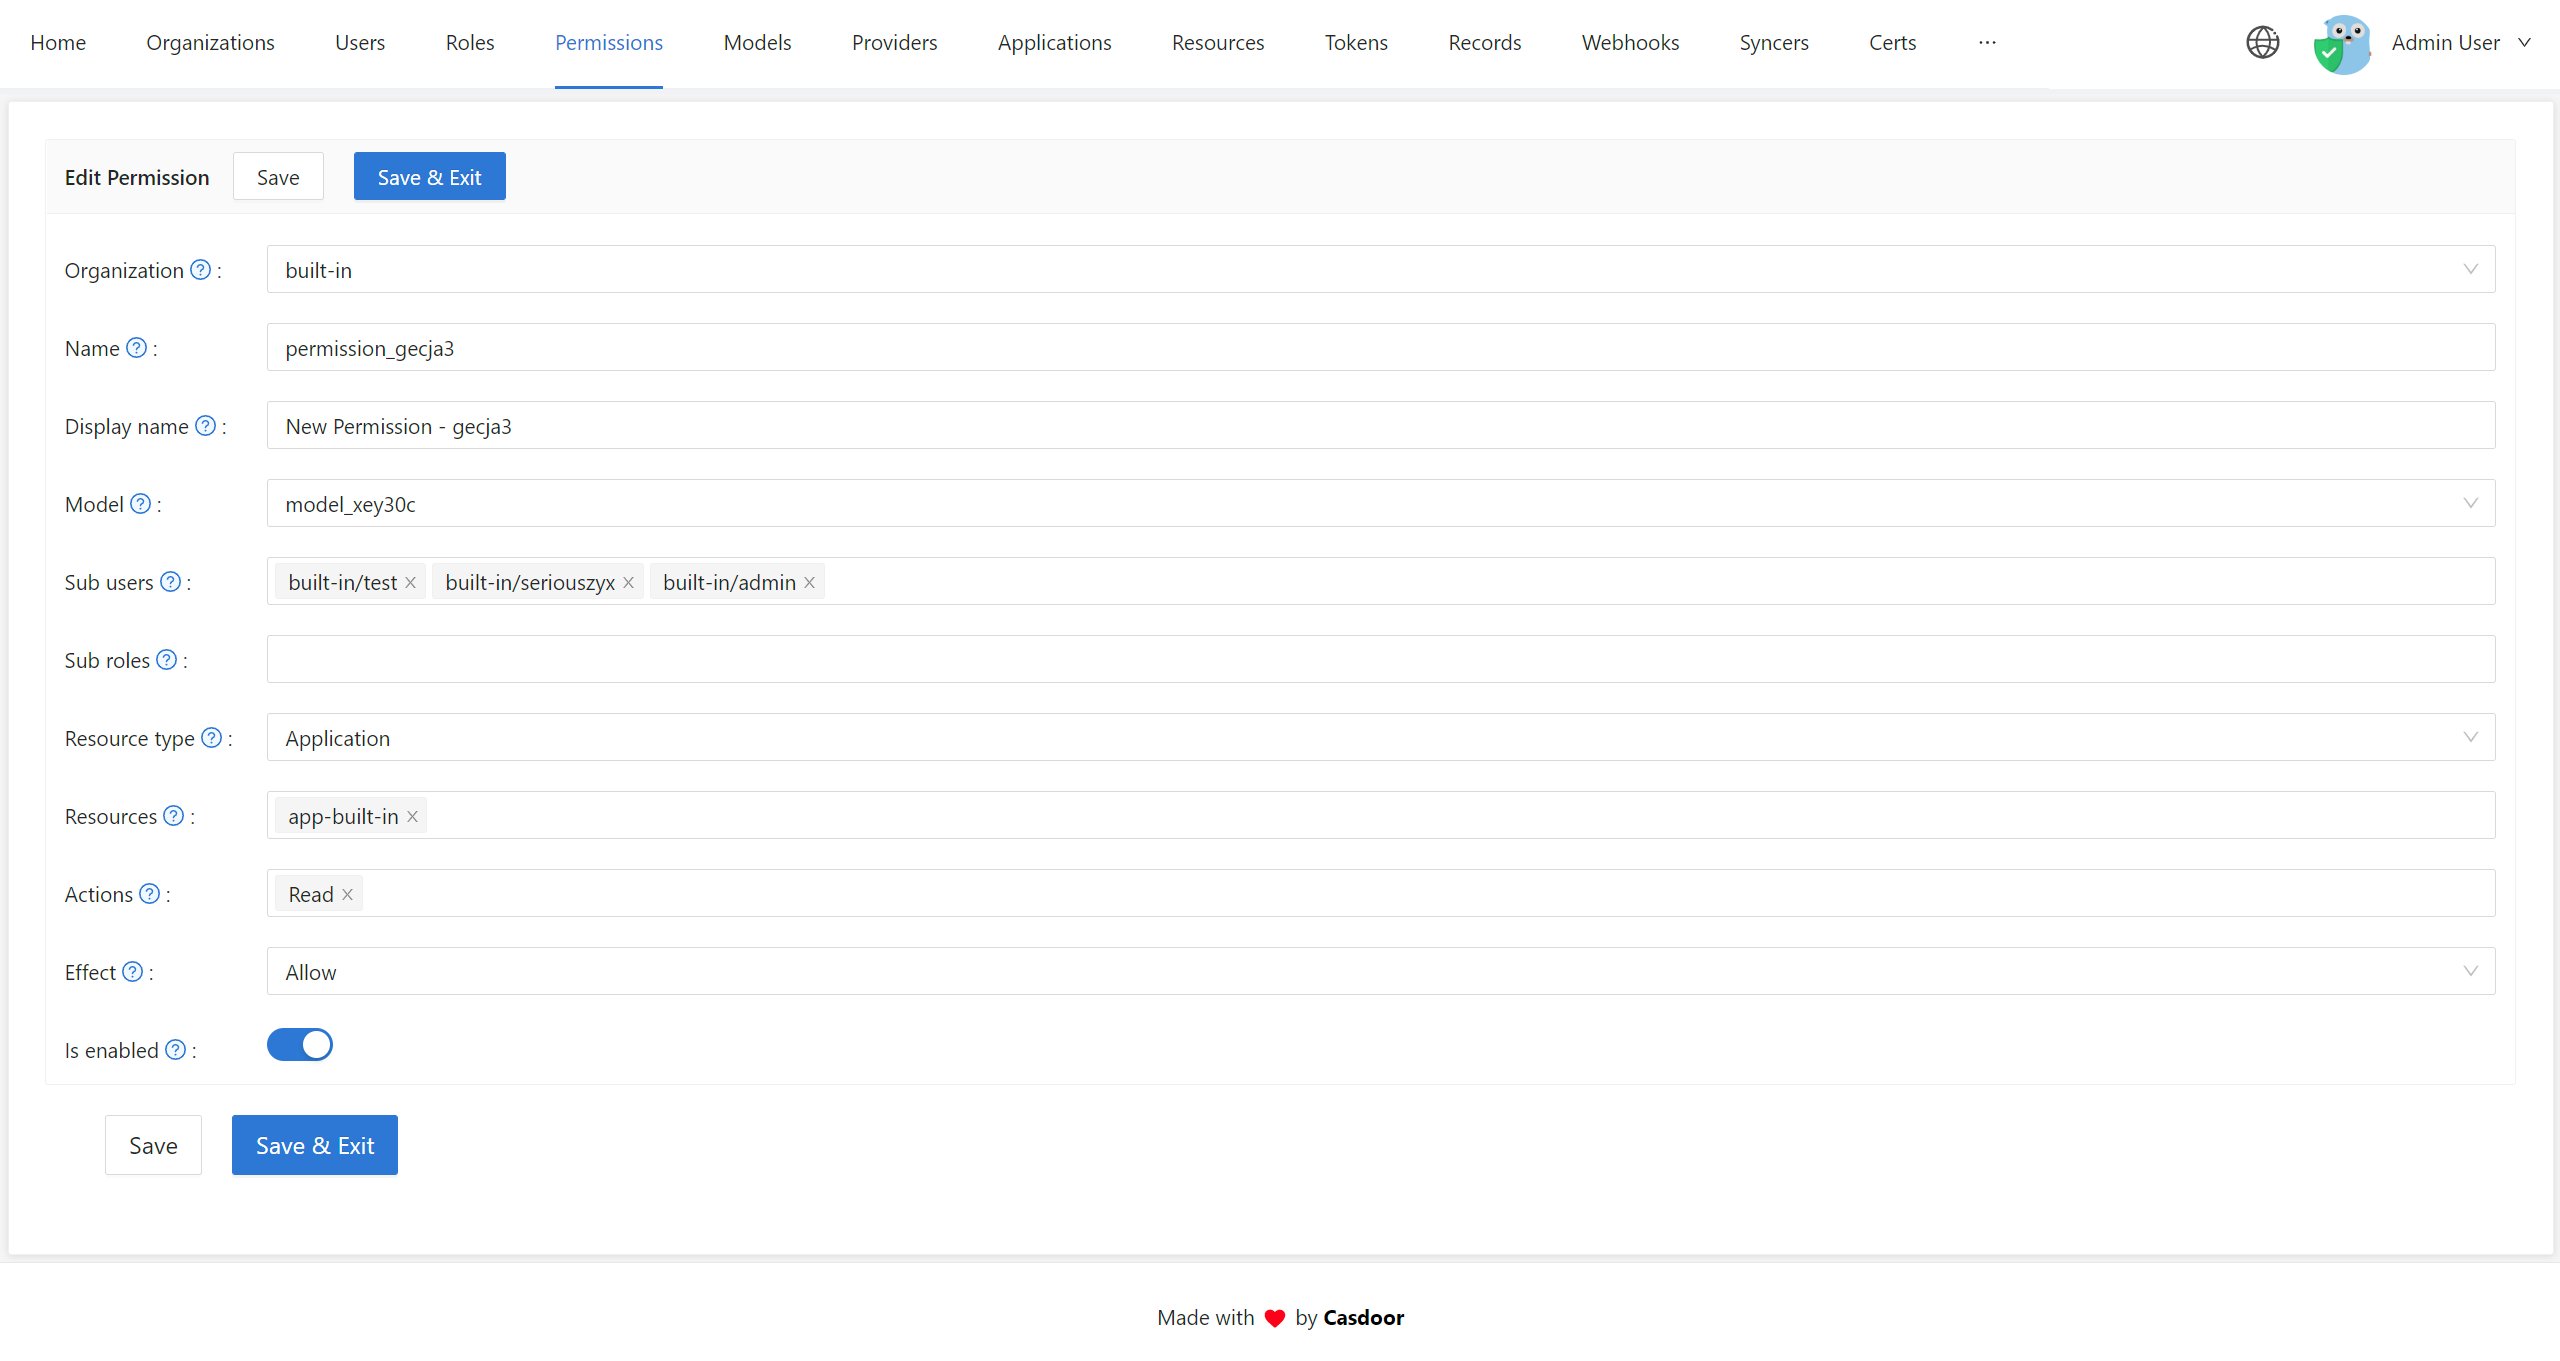
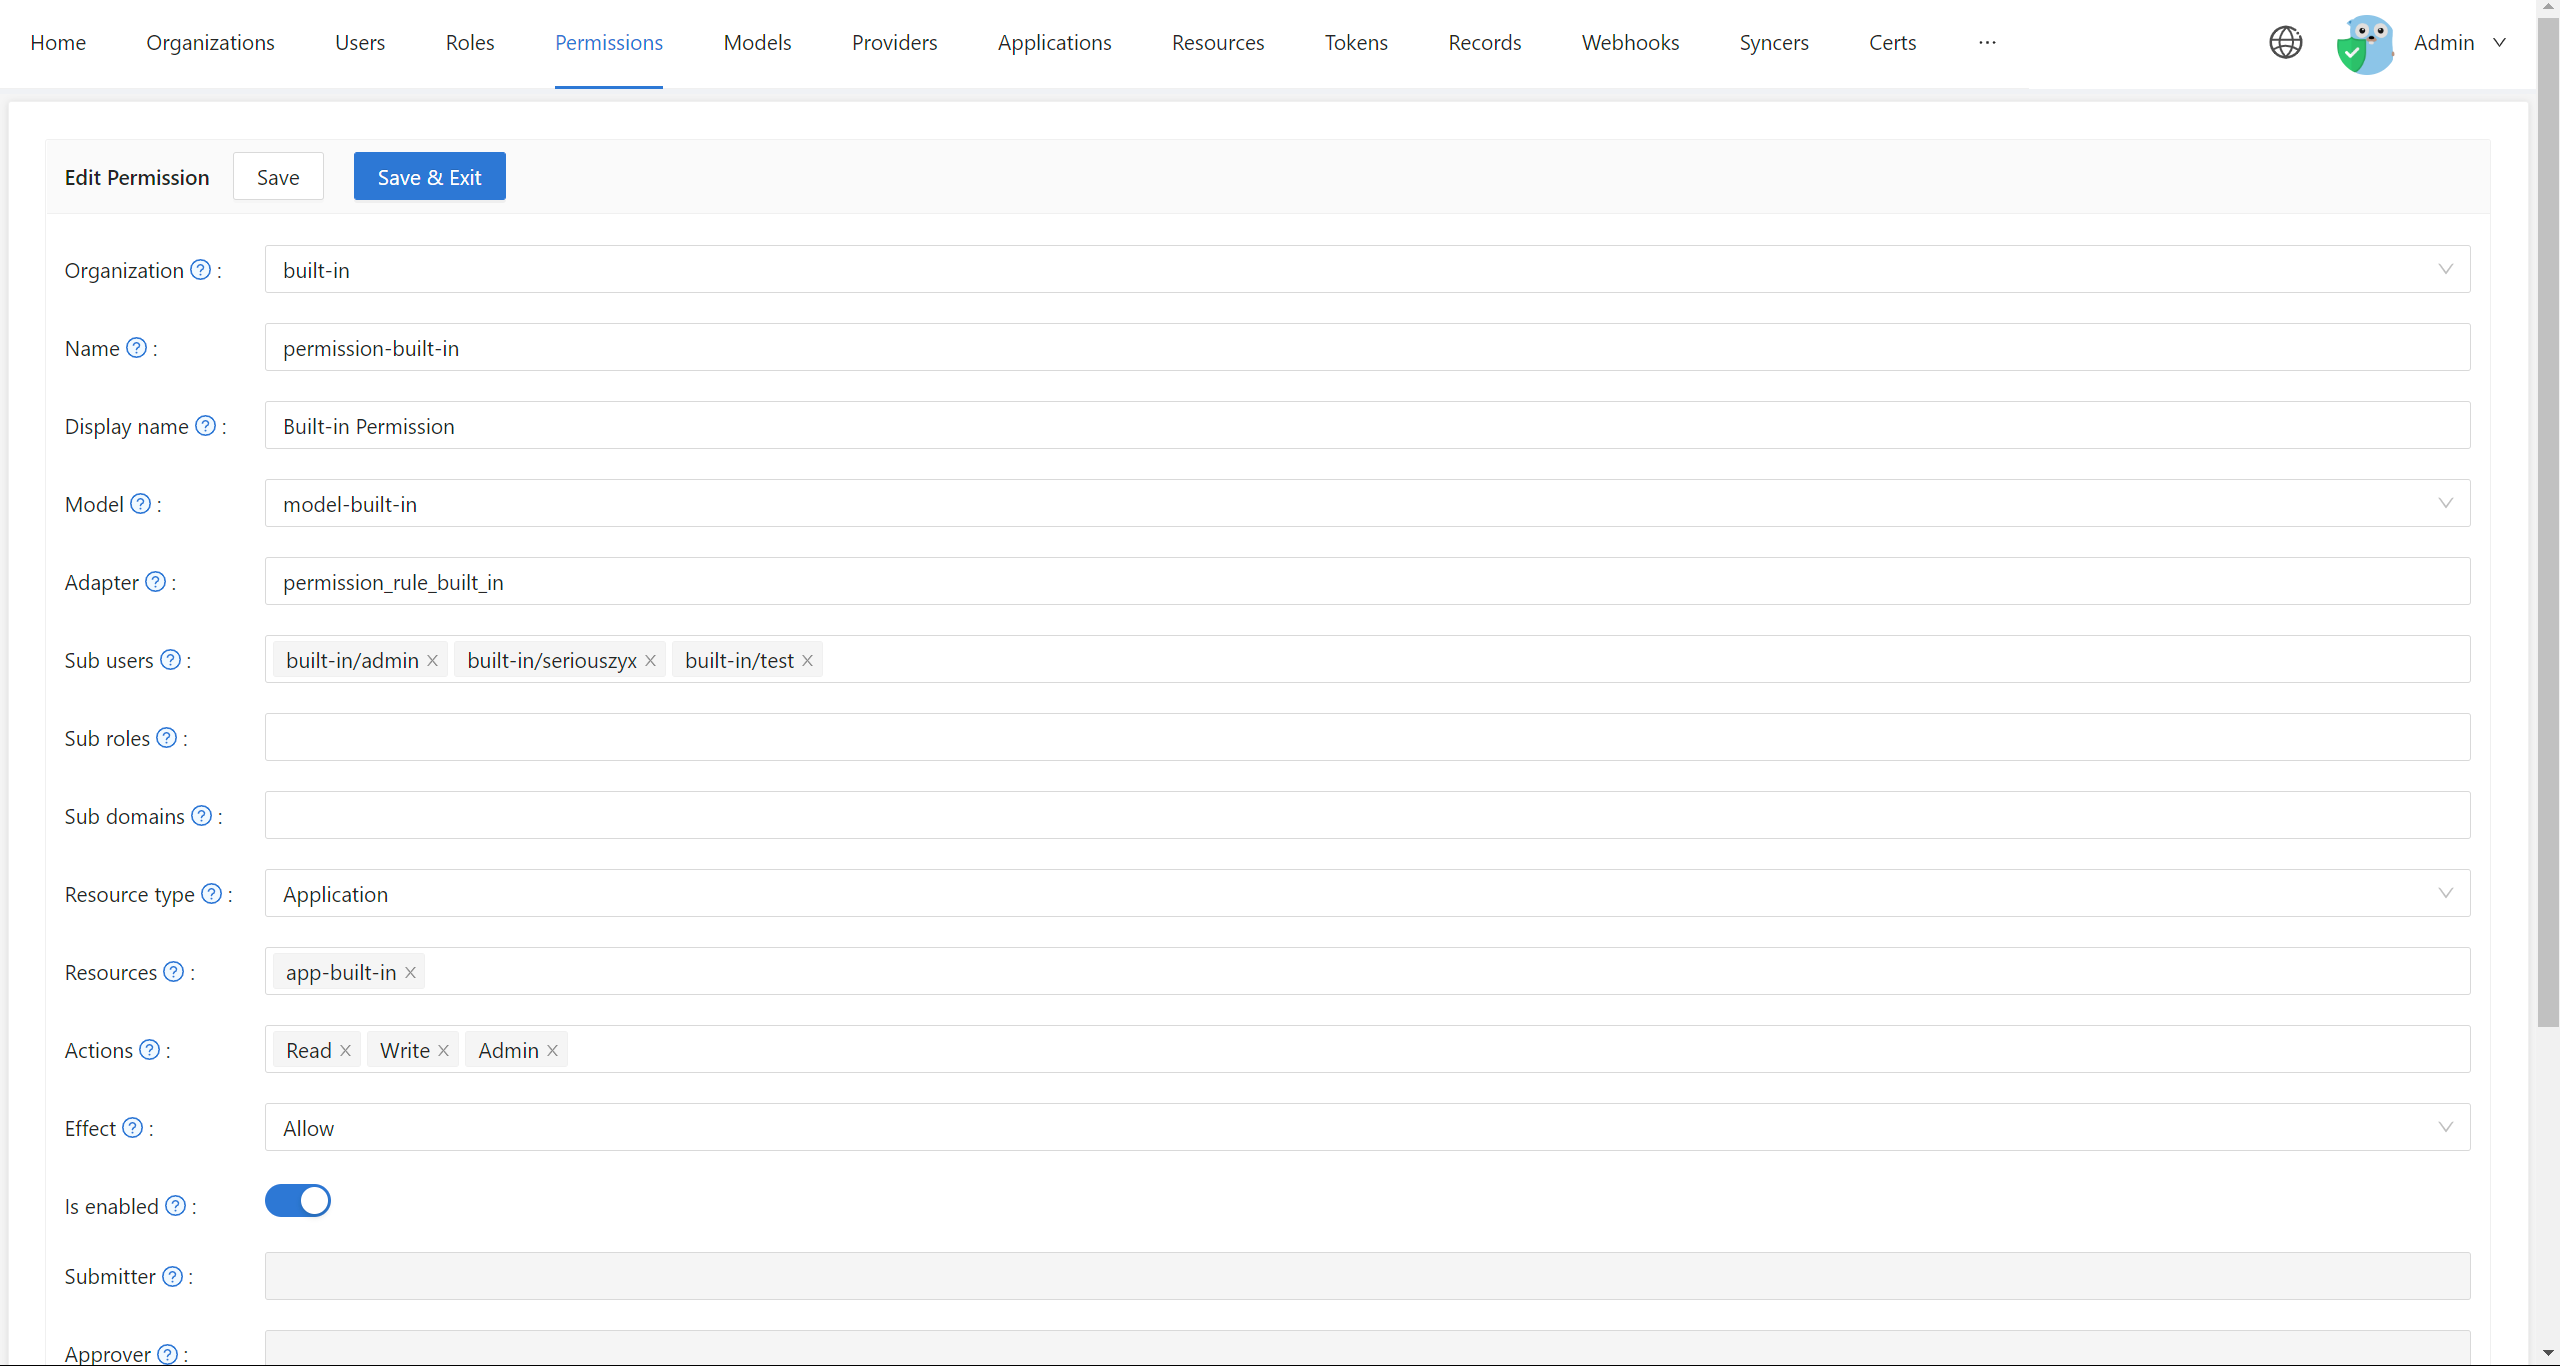
feat: add casbin enforcement page (#309)
* feat: add casbin enforcement page

* Update casbin-enforcement.md

* Update overview.md

diff --git a/sidebars.js b/sidebars.js
@@ -89,6 +89,7 @@ module.exports = {
       collapsed: false,
       items: [
         'permission/overview',
+        'permission/casbin-enforcement',
       ],
     },
     {

diff --git a/docs/permission/overview.md b/docs/permission/overview.md
@@ -14,7 +14,7 @@ See the following example to get a clearer picture of Casdoor's permission contr
 
 ## Permission for applications
 
-Before using `Permission`, you need to create a `Model` which is abstracted into a CONF file based on the PERM metamodel. You can visit the [Casbin documentation](https://casbin.io/docs/syntax-for-models) for more information. 
+Before using `Permission`, you need to create a `Model` which is abstracted into a CONF file based on the PERM metamodel. You can visit the [Casbin documentation](https://casbin.io/docs/syntax-for-models) for more information. We recommend using the [Casbin Online Editor](https://casbin.org/casbin-editor/) to design the model and check the grammar. 
 
 Click the `Models` tab and add a new model. In the edit page, you can config custom model such as ACL model in the `Model text`.
 
@@ -23,7 +23,7 @@ Click the `Models` tab and add a new model. In the edit page, you can config cus
 r = sub, obj, act
 
 [policy_definition]
-p = permission, sub, obj, act
+p = sub, obj, act
 
 [policy_effect]
 e = some(where (p.eft == allow))
@@ -34,13 +34,15 @@ m = r.sub == p.sub && r.obj == p.obj && r.act == p.act
 
 ![](/img/model_edit.png)
 
-:::info
-You need to pay special attention to the fact that the first parameter of the policy definition needs to be **permission** in order to distinguish the policies with different permissions in the `permission_rule` table.
-:::
-
-Click the `Permissions` tab and add a new permission. In the edit page, you need to select the model, sub users, resources and actions as below.  
+Click the `Permissions` tab and add a new permission. In the edit page, you need to select the model, adapter, sub users, resources and actions as below.  
 
 ![](/img/permission_edit.png)
+
+:::info
+
+The `Adapter` field supports specifying the table name where the policies are stored. If this field is empty, the policies are storing in the `permission_rule` table. We strongly recommend **specifying different Adapter for different models**, becaues it's likely to cause conflicts for storing all policies in the same table. 
+:::
+
 
 After saving, the user `test`, `seriouszyx` and `admin` can login to the application `app-built-in`. The other users such as `casdoortest` cannot. 
 

diff --git a/docs/permission/casbin-enforcement.md b/docs/permission/casbin-enforcement.md
@@ -1,0 +1,110 @@
+---
+title: Casbin Enforcement
+description: Using exposed Casbin APIs to manage users' access rights in organization
+keywords: [permission, Casbin]
+---
+
+## Exposed Casbin APIs
+
+At the underlying of casdoor, each permission corresponds to a casbin enforcer, we provide some APIs to call these enforcers directly. You can use them to achieve more flexible permission management functions.
+
+We will show some examples of using these APIs, the permission is shown below.
+
+![](/img/permission_edit.png)
+
+:::tip
+
+You should log in to the Casdoor and get `casdoor_session_id` from cookies.
+
+:::
+
+### Enforce
+
+Request:
+
+```shell
+curl --location --request POST 'http://localhost:8000/api/enforce' \
+--header 'Content-Type: text/plain' \
+--header 'Cookie: casdoor_session_id=b1888c74a7903f1813bf8c34269b0118' \
+--data-raw '{"id":"built-in/permission-built-in", "v1":"app-built-in", "v2":"write"}'
+```
+
+Response:
+
+```
+true
+```
+
+### BatchEnforce
+
+Request:
+
+```shell
+curl --location --request POST 'http://localhost:8000/api/batch-enforce' \
+--header 'Content-Type: text/plain' \
+--header 'Cookie: casdoor_session_id=b1888c74a7903f1813bf8c34269b0118' \
+--data-raw '[{"id":"built-in/permission-built-in", "v1":"app-built-in", "v2":"write"}, {"id":"built-in/permission-built-in", "v1":"app-built-in", "v2":"read"}, {"id":"built-in/permission-built-in", "v1":"app-casnode", "v2":"write"}]'
+```
+
+Response:
+
+```
+[
+    true,
+    true,
+    false
+]
+```
+
+### GetAllObjects
+
+Request:
+
+```shell
+curl --location --request GET 'http://localhost:8000/api/get-all-objects' \
+--header 'Cookie: casdoor_session_id=b1888c74a7903f1813bf8c34269b0118'
+```
+
+Response:
+
+```
+[
+    "app-built-in"
+]
+```
+
+### GetAllActions
+
+Request:
+
+```shell
+curl --location --request GET 'http://localhost:8000/api/get-all-actions' \
+--header 'Cookie: casdoor_session_id=b1888c74a7903f1813bf8c34269b0118'
+```
+
+Response:
+
+```
+[
+    "read",
+    "write",
+    "admin"
+]
+```
+
+### GetAllRoles
+
+Request: 
+
+```shell
+curl --location --request GET 'http://localhost:8000/api/get-all-roles' \
+--header 'Cookie: casdoor_session_id=b1888c74a7903f1813bf8c34269b0118'
+```
+
+Response:
+
+```
+[
+    "role_kcx66l"
+]
+```
